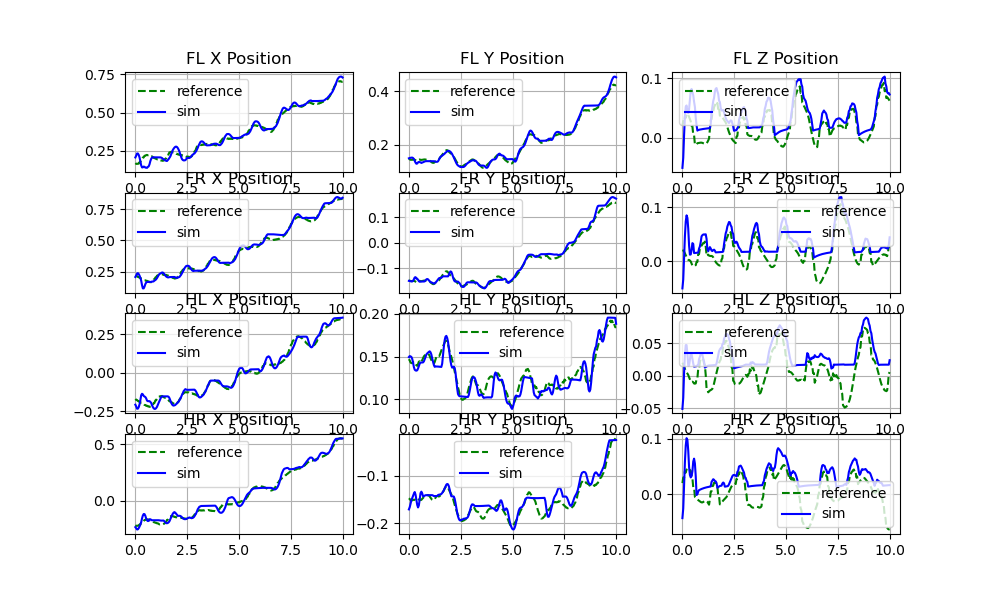
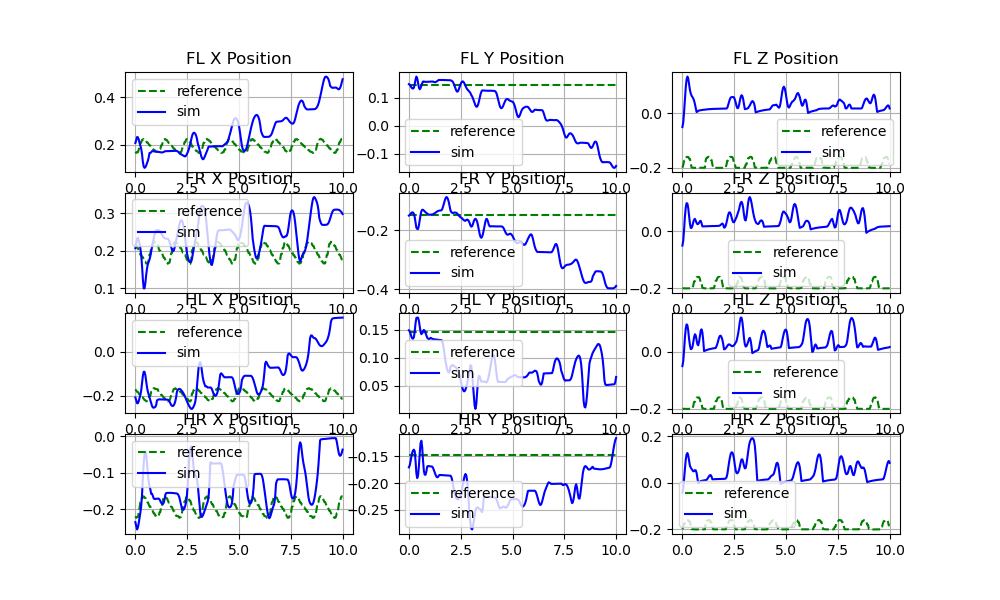
bug with frames fixed

diff --git a/SOLO12_SIM_CONTROL/robot/robot.py b/SOLO12_SIM_CONTROL/robot/robot.py
@@ -4,7 +4,7 @@ import pybullet as p
 import numpy as np
 import pinocchio as pin
 
-from SOLO12_SIM_CONTROL.utils import transformation_mtx, transformation_inv, convert12arr_2_16arr, create_cmd
+from SOLO12_SIM_CONTROL.utils import transformation_mtx, transformation_inv, convert12arr_2_16arr, create_cmd, trajectory_2_local_frame
 from SOLO12_SIM_CONTROL.robot.robot_motor import MotorModel
 
 def links_to_id(robot):
@@ -93,7 +93,7 @@ class SOLO12(object):
         self.EE_WORLD = {"FL_W_POSE": base_frame_tf(self.tfBaseMtx, self.get_endeffector_pose()['FL_FOOT']['linkWorldPosition']), "FR_W_POSE": base_frame_tf(self.tfBaseMtx , self.get_endeffector_pose()['FR_FOOT']['linkWorldPosition']),
                                     "HL_W_POSE": base_frame_tf(self.tfBaseMtx , self.get_endeffector_pose()['HL_FOOT']['linkWorldPosition']), "HR_W_POSE": base_frame_tf(self.tfBaseMtx , self.get_endeffector_pose()['HR_FOOT']['linkWorldPosition'])}
         if sim_cfg['mode'] == "bezier":
-            self.shiftZ = 0.10
+            self.shiftZ = 0.12
             self.shift = {'FL_FOOT': shift_z(self.EE_WORLD['FL_W_POSE'], self.shiftZ), 'FR_FOOT': shift_z(self.EE_WORLD['FR_W_POSE'], self.shiftZ),
                      'HL_FOOT': shift_z(self.EE_WORLD['HL_W_POSE'], self.shiftZ), 'HR_FOOT': shift_z(self.EE_WORLD['HR_W_POSE'], self.shiftZ)}
         elif sim_cfg['mode'] == "towr":
@@ -129,7 +129,9 @@ class SOLO12(object):
         self._joint_toq_ref = None
         self._joint_state = None
         self._time_step = config['timestep']
+        self.q_ref = self.q_init
         self._update()
+
 
     def CoM_states(self):
         """Returns the Center of mass and orientation of robot
@@ -187,9 +189,6 @@ class SOLO12(object):
         """
         self._update()
         return {'q_cmd': self._joint_ang, "q_vel": self._joint_vel, "q_toq": self._joint_toq}
-
-    # @property
-    # def 
 
     @property
     def time(self):
@@ -271,8 +270,9 @@ class SOLO12(object):
             q_cmd, q_vel, q_toq = self.inv_dynamics(cmd, index)
         return q_cmd, q_vel, q_toq
 
-    def PD(self, qa_ref, qa_dot_ref, qa, qa_dot, dt, Kp=1, Kd=1, torques_sat=5*np.ones((12, 1)), torques_ref=np.zeros(12)):
+    def PD(self, qa_ref, qa_dot_ref, qa, qa_dot, dt, Kp=1, Kd=1, torques_sat=5*np.ones(12), torques_ref=np.zeros(12)):
 
+        # breakpoint()
         # Output torques
         torques = Kp * (qa_ref - qa) + Kd * (qa_dot_ref - qa_dot) + torques_ref
 
@@ -294,31 +294,35 @@ class SOLO12(object):
         """
         self._update()
         if usePin:
+            # breakpoint()
+            cmds = trajectory_2_local_frame(self, cmds)
             if cmds.get('COM') is not None:
                     del cmds['COM']
             q_cmd = np.zeros(12)
             q_vel = np.zeros(12)
             q_toq = np.zeros(12)
             q_cmd, q_vel_cmd = self.inv_kinematics_pin(cmds) 
-            ##DELETE FOR LATER
-            i = 0
-            for cmd, idx in zip(cmds.values(), indices):
-                q_cmd_temp, q_vel_temp, q_toq_temp = self.control(cmd, idx, mode)
-                if (q_cmd_temp is not None):
-                    q_cmd[i:i+3] = q_cmd_temp[i:i+3]
-                if (q_vel_temp is not None):
-                    q_vel[i:i+3] = q_vel_temp[i:i+3]
-                if (q_toq_temp is not None):
-                    q_toq[i:i+3] = q_toq_temp[i:i+3]
-                i += 3 
-            Kp = 8.
-            Kd = 0.2
-            torque_sat = 3  # torque saturation in N.m
-            torques_ref = np.zeros(12)  # feedforward torques
-            # breakpoint()
+            # ##DELETE FOR LATER
+            # i = 0
+            # for cmd, idx in zip(cmds.values(), indices):
+            #     q_cmd_temp, q_vel_temp, q_toq_temp = self.control(cmd, idx, mode)
+            #     if (q_cmd_temp is not None):
+            #         q_cmd[i:i+3] = q_cmd_temp[i:i+3]
+            #     if (q_vel_temp is not None):
+            #         q_vel[i:i+3] = q_vel_temp[i:i+3]
+            #     if (q_toq_temp is not None):
+            #         q_toq[i:i+3] = q_toq_temp[i:i+3]
+            #     i += 3 
+            # Kp = 8.
+            # Kd = 0.2
+            # torque_sat = 3  # torque saturation in N.m
+            # torques_ref = np.zeros(12)  # feedforward torques
+            # # breakpoint()
             self._update()
             q_mes, v_mes = self.get_PD_values()
             q_toq = self._motor.convert_to_torque_v1(q_cmd, q_mes, v_mes, q_vel_cmd)
+            # q_toq = self.PD(q_cmd, q_vel_cmd, q_mes, v_mes, self._time_step)
+            # breakpoint()
         else:
             if cmds.get('COM') is not None:
                 del cmds['COM']
@@ -365,13 +369,32 @@ class SOLO12(object):
         q_toq = self._motor.convert_to_torque(q_cmd, q_mes, v_mes)
         return q_cmd, q_vel, q_toq
 
-    def inv_dynamics_pin(self):
+    def inv_dynamics_pin(self, q_cmd, q_vel_cmd, q_toq_cmd):
         """Template for Pinocchio based inverse dynamics
 
         Raises:
             NotImplementedError: _description_
         """
-        raise NotImplementedError
+        
+        #computing mass matrix
+
+        M = pin.crba(self.ROBOT.model, self.ROBOT.data, self._joint_ang)
+        toq = pin.rnea(self.ROBOT.model, self.ROBOT.data, self._joint_ang, self._joint_vel, self._joint_acc)
+
+        Kp_tau = 8.
+        Kd_tau = 0.2
+        torques_ref = -Kp_tau * (q_cmd - self._joint_ang) - Kd_tau * q_vel_cmd
+
+        self.q_dot2_ref = np.linalg.inv(M[6:, 6:]) * (torques_ref - toq[6:])
+
+        q_vel_cmd += self.q_dot2_ref * self._time_step
+
+        breakpoint()
+
+        q_toq = self._motor.convert_to_torque_ff(q_cmd, self._joint_ang, self._joint_vel, q_vel_cmd, toq)
+
+        breakpoint()
+        return q_cmd, q_vel_cmd, q_toq
         
     def inv_kinematics_multi(self, cmds, indices, mode = 'P'):
         """Helper function that utilizes bullet inverse kinematics algorithm to find the optimal
@@ -457,7 +480,8 @@ class SOLO12(object):
             NotImplementedError: _description_
         """
 
-        K = 25.
+        K = 100.
+        
 
         ID_FL = self.ROBOT.model.getFrameId("FL_FOOT")
         ID_FR = self.ROBOT.model.getFrameId("FR_FOOT")
@@ -472,19 +496,31 @@ class SOLO12(object):
         xyz_HL = self.ROBOT.data.oMf[ID_HL].translation
         xyz_HR = self.ROBOT.data.oMf[ID_HR].translation
 
+        # err_FL = xyz_FL - cmd['FL_FOOT']['P']
+        err_FL = np.reshape(xyz_FL - cmd['FL_FOOT']['P'], (3,1))
+        # err_FR = xyz_FR - cmd['FR_FOOT']['P']
+        err_FR = np.reshape(xyz_FR - cmd['FR_FOOT']['P'], (3, 1))
+        # err_HL = xyz_HL - cmd['HL_FOOT']['P']
+        err_HL = np.reshape(xyz_HL - cmd['HL_FOOT']['P'], (3, 1))
+        # err_HR = xyz_HR - cmd['HR_FOOT']['P']
+        err_HR = np.reshape(xyz_HR - cmd['HR_FOOT']['P'], (3, 1))
 
-        err_FL = xyz_FL - cmd['FL_FOOT']['P']
-        err_FR = xyz_FR - cmd['FR_FOOT']['P']
-        err_HL = xyz_HL - cmd['HL_FOOT']['P']
-        err_HR = xyz_HR - cmd['HR_FOOT']['P']
+        print(f"xyx_FL [{xyz_FL}]")
+        print(f"FL_FOOT {cmd['FL_FOOT']['P']}")
+        print(f"xyx_FR [{xyz_FR}]")
+        print(f"FR_FOOT {cmd['FR_FOOT']['P']}")
+        print(f"xyx_HL [{xyz_HL}]")
+        print(f"HL_FOOT {cmd['HL_FOOT']['P']}")
+        print(f"xyx_HR [{xyz_HR}]")
 
         o_FL = self.ROBOT.data.oMf[ID_FL].rotation
         o_FR = self.ROBOT.data.oMf[ID_FR].rotation
         o_HL = self.ROBOT.data.oMf[ID_HL].rotation
         o_HR = self.ROBOT.data.oMf[ID_HR].rotation
 
+
         fJ_FL3 = pin.computeFrameJacobian(self.ROBOT.model, self.ROBOT.data, self._joint_ang, ID_FL)[:3, -12:]  # Take only the translation terms
-        oJ_FL3 = o_FL @ fJ_FL3 #Transforms to rotation to global frame
+        oJ_FL3 = o_FL @ fJ_FL3  #Transforms to rotation to global frame
         oJ_FLxz = oJ_FL3[0:3, -12:]
 
         fJ_FR3 = pin.computeFrameJacobian(self.ROBOT.model, self.ROBOT.data, self._joint_ang, ID_FR)[:3, -12:]
@@ -499,17 +535,26 @@ class SOLO12(object):
         oJ_HR3 = o_HR @ fJ_HR3
         oJ_HRxz = oJ_HR3[0:3, -12:]
 
-        nu = np.hstack([err_FL, err_FR, err_HL, err_HR]) # 12 x 1
+        # breakpoint()
+
+        nu = np.vstack([err_FL, err_FR, err_HL, err_HR]) # 12 x 1
 
         J = np.vstack([oJ_FLxz, oJ_FRxz, oJ_HLxz, oJ_HRxz]) #12 x 12
 
-        q_dot_ref = - K * np.linalg.pinv(J) @ nu # 12 x 12 X 12 x 1 => 12 x 1
+        # breakpoint()
+
+        q_dot_cmd = - K * np.linalg.pinv(J) @ nu # 12 x 12 X 12 x 1 => 12 x 1
+
+        q_dot_cmd = np.reshape(q_dot_cmd, (12, ))
 
         # Computing the updated configuration
-        q_ref = pin.integrate(self.ROBOT.model, self._joint_ang, q_dot_ref * self._time_step)
+        q_cmd = pin.integrate(self.ROBOT.model, self._joint_ang, q_dot_cmd * self._time_step)
 
+        self.q_ref = q_cmd
 
-        return q_ref, q_dot_ref
+        # breakpoint()
+
+        return q_cmd, q_dot_cmd
 
     def default_stance_control(self):
         """Robot default stance standing still

diff --git a/SOLO12_SIM_CONTROL/utils.py b/SOLO12_SIM_CONTROL/utils.py
@@ -148,6 +148,35 @@ def trajectory_2_world_frame(robot, traj, bezier=False, towr=False, original_tra
             tf_vec = tf_mtx @ vec            
             traj[link][mode] = tf_vec[:3]
     return traj
+
+def trajectory_2_local_frame(robot, traj, bezier=False, towr=False, original_traj=None):
+    """Helper function to transform from base frame to global frame 
+       of pybullet enviroment. 
+
+    Args:
+        robot (_type_): _description_
+        traj (_type_): _description_
+
+    Returns:
+        _type_: _description_
+    """
+    config = robot.CoM_states() #Query the state of robot in global frame
+    before_tf_towr = copy.deepcopy(traj)
+    for link in ('FL_FOOT', 'FR_FOOT', 'HL_FOOT', 'HR_FOOT'):
+        for mode in ("P", "D"):
+            if mode == "P":
+                # tf_mtx = transformation_mtx(config['linkWorldPosition'], np.zeros(3))
+                tf_mtx = transformation_inv(transformation_mtx(config['linkWorldPosition'], config['linkWorldOrientation']))
+            if mode == "D" and bezier:
+                tf_mtx = transformation_inv(transformation_mtx(np.zeros(3), config['linkWorldOrientation']))
+            
+            vec = np.concatenate((np.array([traj[link][mode][0]]), 
+                                    np.array([traj[link][mode][1]]),  
+                                    np.array([traj[link][mode][2]]), 
+                                    np.ones(1)))
+            tf_vec = tf_mtx @ vec            
+            traj[link][mode] = tf_vec[:3]
+    return traj
     
 def tf_2_world_frame(traj, CoM):
     traj[0] = traj[0] - CoM['linkWorldPosition'][0]

diff --git a/SOLO12_SIM_CONTROL/robot/robot_motor.py b/SOLO12_SIM_CONTROL/robot/robot_motor.py
@@ -87,6 +87,20 @@ class MotorModel(object):
 
         return np.clip(motor_torque, -1.0 * MOTOR.OBSERVED_TORQUE_LIMIT, MOTOR.OBSERVED_TORQUE_LIMIT)
 
+    def convert_to_torque_ff(self, motor_ang_cmd, motor_ang, motor_vel, motor_vel_cmd, toq_ff):
+        """Convert the motor position signal to torque
+        Args:
+            motor_cmd (_type_): _description_
+            motor_ang (_type_): _description_
+            motor_vel (_type_): _description_
+        """
+        kp = self._kp
+        kd = self._kd
+        desired_motor_angle = motor_ang_cmd
+        desired_motor_velocities = motor_vel_cmd
+        motor_torque = kp * (desired_motor_angle - motor_ang) + kd * (desired_motor_velocities - motor_vel) + toq_ff
+        return np.clip(motor_torque, -1.0 * MOTOR.OBSERVED_TORQUE_LIMIT, MOTOR.OBSERVED_TORQUE_LIMIT)
+
     def _convert_to_torque_from_pwm(self, pwm):
         """converting a pwm signal to motor torque
 

diff --git a/SOLO12_SIM_CONTROL/gaitPlanner.py b/SOLO12_SIM_CONTROL/gaitPlanner.py
@@ -200,6 +200,11 @@ class Gait(object):
         self.gaitTraj['HR_FOOT']['D'][0] = step_coord[3]
         self.gaitTraj['HR_FOOT']['D'][1] = step_coord[4]
         self.gaitTraj['HR_FOOT']['D'][2] = step_coord[5]
+
+
+        # breakpoint()
+        self.gaitTraj['COM'] = np.concatenate((self.robot.CoM_states()['linkWorldPosition'], self.robot.CoM_states()['linkWorldPosition']))
+
         self.gaitTraj = trajectory_2_world_frame(self.robot, self.gaitTraj, bezier=True)
 
         return self.gaitTraj, True
